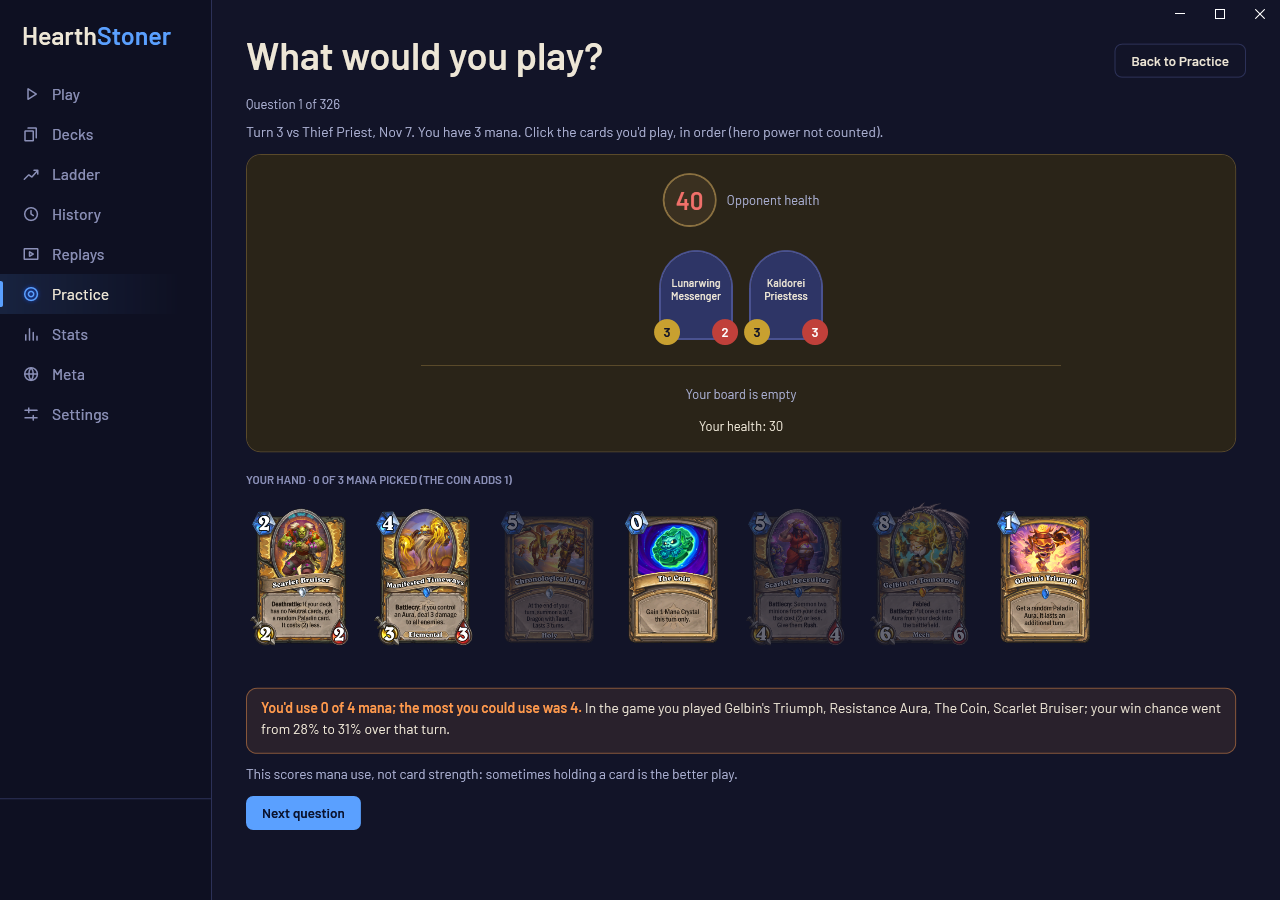
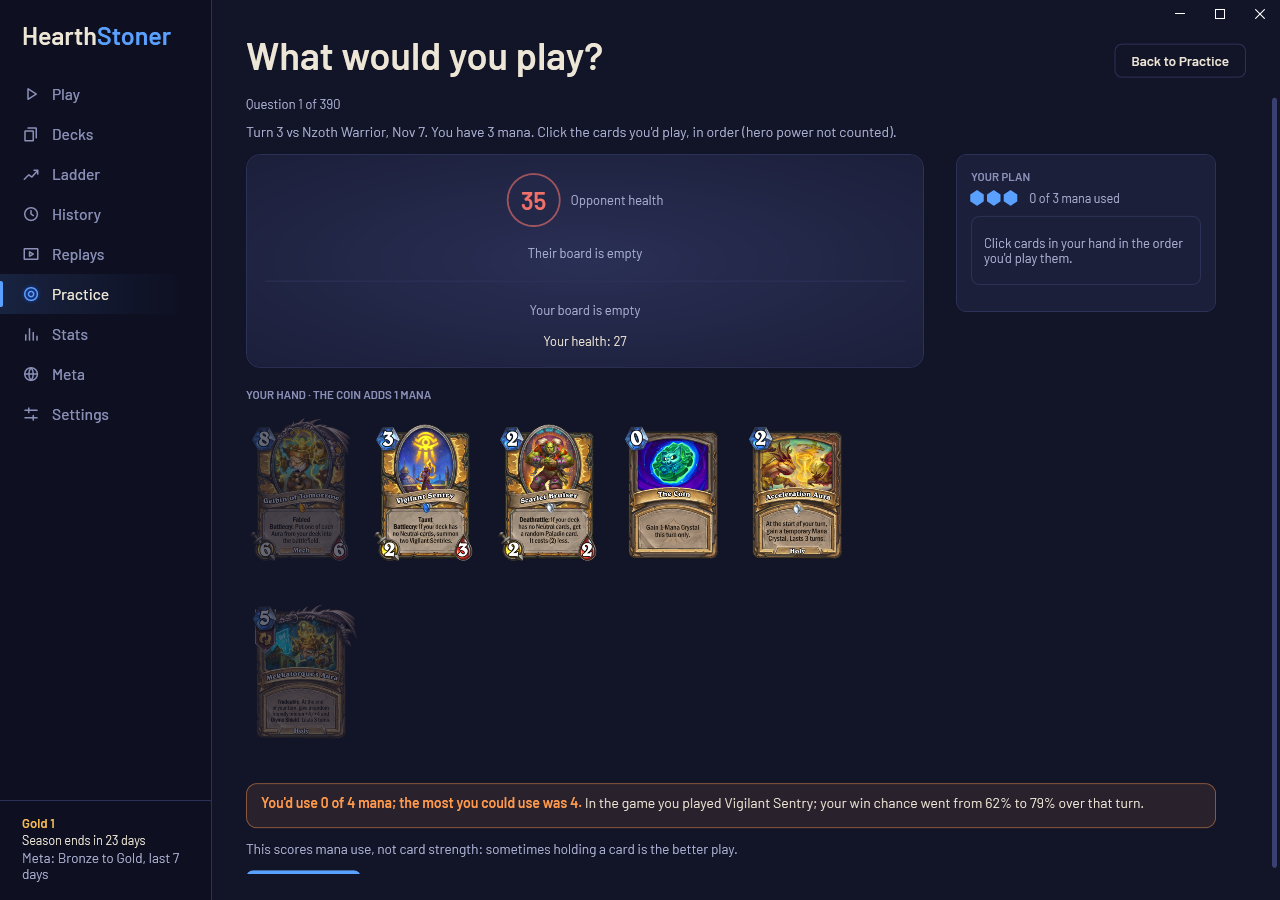
Version 1.4.0: the window fits any screen, and a UI review of every page
README: screen sizes, text size, page shortcuts, practice progress and the new
Settings; its screenshots redrawn without your name (HEARTHSTONER_SCREENSHOT_ANON).

Changed region(s): [[0.1875, 0.1244, 1.0, 0.9956], [0.7812, 0.56, 0.875, 0.7156], [0.0, 0.9022, 0.125, 0.9644]]

diff --git a/App/MainWindow.cs b/App/MainWindow.cs
@@ -215,6 +215,8 @@ namespace HearthStoner
                     if (Application.Current == null) new Application { ShutdownMode = ShutdownMode.OnExplicitShutdown };
                     var data = AppData.Load(svc);
                     if (data.Error != null) Console.WriteLine("Data error: " + data.Error);
+                    // HEARTHSTONER_SCREENSHOT_ANON=1: leave your name off the menu, for pictures that go public (the README's).
+                    if (Environment.GetEnvironmentVariable("HEARTHSTONER_SCREENSHOT_ANON") == "1") data.PlayerName = null;
                     // Card art (banners) and tiles (card lists), downloaded if missing.
                     ArtCache.Prefetch(data.Picks.Select(p => p.SignatureCardId).Where(x => x != null), TimeSpan.FromSeconds(30));
                     foreach (var id in data.Decks.SelectMany(dk => dk.Cards).Distinct()) CardTiles.Get(id);

diff --git a/README.md b/README.md
@@ -51,8 +51,12 @@ you're not in a game.
 ## The app
 
 HearthStoner sits in the tray near the clock. Its menu has Open, Overlay on/off, Start with Windows, Quit, and
-"Update to x.y.z" when a new version is out. The overlay appears whenever Hearthstone is in front. The window has
-nine pages:
+"Update to x.y.z" when a new version is out. The overlay appears whenever Hearthstone is in front.
+
+The window fits any screen: in a small window the pages stack into one column, a normal window gets two, and a
+maximized window on a 1920 px or ultrawide screen gets three side by side (centred on very wide screens so nothing
+stretches across the whole monitor). Settings has a **text size** (90% to 150%) for big or far-away screens, and the
+window opens where you left it. Ctrl+1 to Ctrl+9 jump to the pages in menu order. It has nine pages:
 
 - **Play:** a button to start Hearthstone through the Battle.net app (it turns into "Switch to Hearthstone" while
   the game runs). Then your decks, ranked by expected win rate against today's field at your rank, the best one as
@@ -76,13 +80,15 @@ nine pages:
   Hearthstone install (built in the background; Settings can rebuild it after a patch).
 - **Practice:** a daily review (questions you missed come back the next day, then after 3 and 7 days; three right
   in a row retire one) and six drills from your own games: What would you play?, Guess their hand, Secret guessing,
-  Mulligan by matchup, Discover picks and Lethal puzzles.
+  Mulligan by matchup, Discover picks and Lethal puzzles. **Your progress** shows the questions you answered on each
+  of the last two weeks' days and how often you're right in each drill.
 - **Stats:** your record, going first and on the coin, the last 30 games, **mana use** (how much you spend, the
   turns you leave mana unspent, by deck), results by opponent class and by deck, mulligan habits and tilt notes.
 - **Meta:** every archetype at your rank with its play rate and win rate, by class or in one list, with search and
   sorting. Your archetypes are marked.
-- **Settings:** overlay layout and panels, the replay board, the meta rank bracket and period, which program starts
-  Hearthstone, start with Windows, updates, your collection, and the hotkeys. Saved as you change them.
+- **Settings:** text size and whether the window remembers its size and place, overlay layout and panels, the
+  replay board, the meta rank bracket and period, which program starts Hearthstone, start with Windows, updates,
+  your collection, and the hotkeys. Saved as you change them.
 
 ![Practice](docs/screenshots/practice.png)
 
@@ -241,9 +247,11 @@ The exe lands in `bin\Release\net10.0-windows\HearthStoner.exe`. `install.bat` b
   `tests/run.sh` builds everything (including the Windows app) and runs the tests; it installs the .NET 10 SDK into
   `/opt/dotnet` if it's missing. Test data goes in `tests/data`: copies of `%LocalAppData%\HearthStoner` under
   `tests/data/appdata/HearthStoner`, and Hearthstone's `Logs\Hearthstone_*` folders under `tests/data/install/Logs`.
-- `HearthStoner screenshot [folder]` draws every page of the app to PNGs, and `HearthStoner preview [out.png]
-  [--log Power.log] [--turn N]` draws the overlay at a turn of a saved game. `build.bat` makes
-  `screenshots\preview.png` after every build.
+- `HearthStoner screenshot [folder]` draws every page of the app to PNGs (at 1280x800, and again in a small window,
+  the narrowest wide window, 1920 and 3440 px wide), and `HearthStoner preview [out.png] [--log Power.log]
+  [--turn N]` draws the overlay at a turn of a saved game. `build.bat` makes `screenshots\preview.png` after every
+  build. With `HEARTHSTONER_SCREENSHOT_ANON=1` the screenshots leave your name off the menu (the README's pictures
+  are made that way).
 
 ### Releases
 

diff --git a/CHANGELOG.md b/CHANGELOG.md
@@ -3,6 +3,34 @@
 Every installed version, newest first. The number is in `VERSION`: patch (1.0.x) for fixes, minor (1.x.0) for new
 features, major (x.0.0) for big changes, such as a new data format. Each version is tagged in git as `v<number>`.
 
+## 1.4.0 - 2026-11-07
+
+A UI review: the window fits any screen size, and every page got clearer.
+
+- **Any screen size:** pages stack into one column in a small window, use two in a normal one, and three side by
+  side when maximized on a 1920 px or ultrawide screen (centred past 2400 px). Crossing a size keeps your place.
+- **Display settings:** text size from 90% to 150%, and the window opens where you left it (maximized if it was;
+  back to the middle if that screen is gone). Ctrl+1 to Ctrl+9 open the pages in menu order.
+- **Play:** on a wide screen the field shows all eight classes and quests and crafting sit beside it.
+- **Decks:** your own record under each deck's win rate, "No data" for decks the meta doesn't know, a shorter
+  results-by-class list.
+- **History:** filter by result (wins, losses) as well as mode, a message and a reset button when nothing
+  matches, and "Clean" instead of an empty review. On an ultrawide screen the review sits beside the graph.
+- **Ladder:** lost games are hollow rings on the climb chart and the extra-stars note is clearer.
+- **Stats:** W and L letters on the last 30 games; decks that weren't saved read "Paladin, deck not saved".
+  Your rank comes from your Standard ranked games, not a newer Wild brawl.
+- **Practice:** a progress panel (answers per day for two weeks, accuracy per drill, questions learned). "What
+  would you play?" keeps your plan, mana crystals and Lock in beside the board. Lethal puzzles use the app's
+  colours and real card art.
+- **Replays:** the advice is grouped into cards, a bit larger, and "their deck" no longer sits under your name.
+- **Meta:** names sit next to their bars.
+- **Settings:** two columns on a wide screen.
+- Rounded boxes clip their art to the rounded corners (the Best pick banner's right end was square).
+- Greyed-out buttons are flat grey and say why they're greyed out.
+- Your name shows in the menu even when HearthStoner starts before Hearthstone.
+- The settings file is saved safely when two saves happen at once.
+- Self-test: each game uses the deck queued before it, not the session's last deck.
+
 ## 1.3.1 - 2026-11-07
 
 Dependency updates (from Dependabot).
